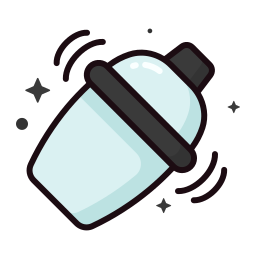
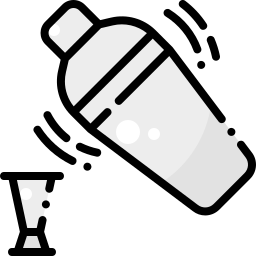
style: :lipstick: update html file
replace shaker image

diff --git a/index.html b/index.html
@@ -12,10 +12,12 @@
         <h1>Potion Lab</h1>
         <div class="gameScreen">
             <div class="potionsToFuse">
+                <!-- Potion basée en local storage -->
                 <div class="potion" id="oldPotion">
                     <img src="assets/images/weak-potion.png" alt="potion image" srcset="">
                     <p>Lorem ipsum</p>
                 </div>
+                <!-- Potion aléatoire -->
                 <div class="potion" id="newPotion">
                     <img src="assets/images/legendary-potion.png" alt="potion image" srcset="">
                     <p>Lorem ipsum</p>
@@ -29,6 +31,7 @@
                 </div>
             </div>
             <div class="potionFused">
+                <!-- Potion fusionnée, stockée en local storage -->
                 <div class="potion" id="fusedPotion">
                     <img src="assets/images/powerful-potion.png" alt="potion image" srcset="">
                     <p>Lorem ipsum</p>